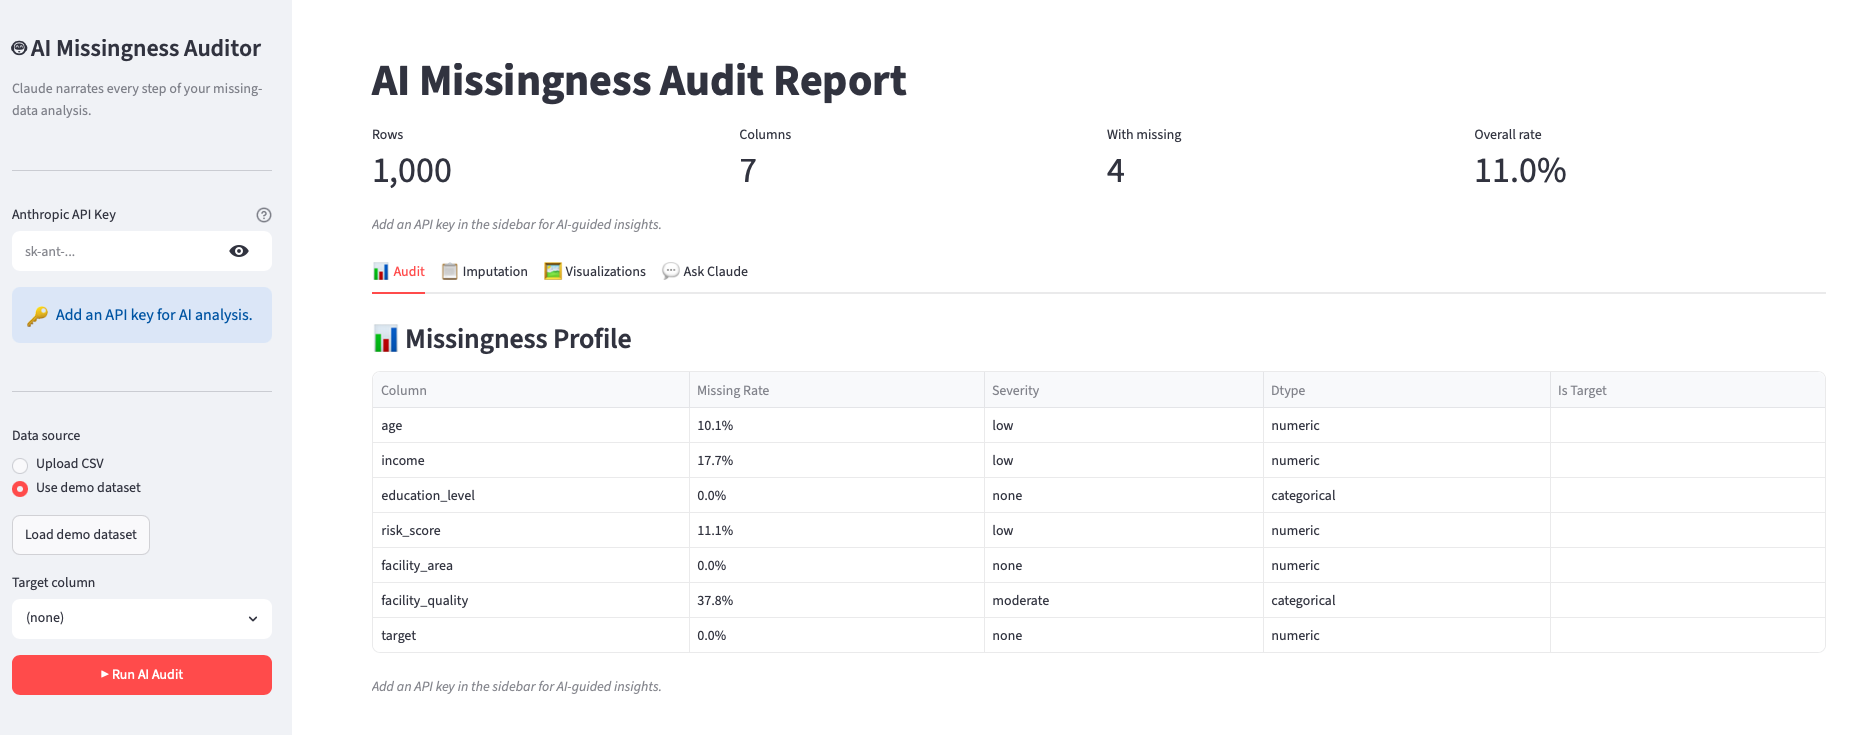
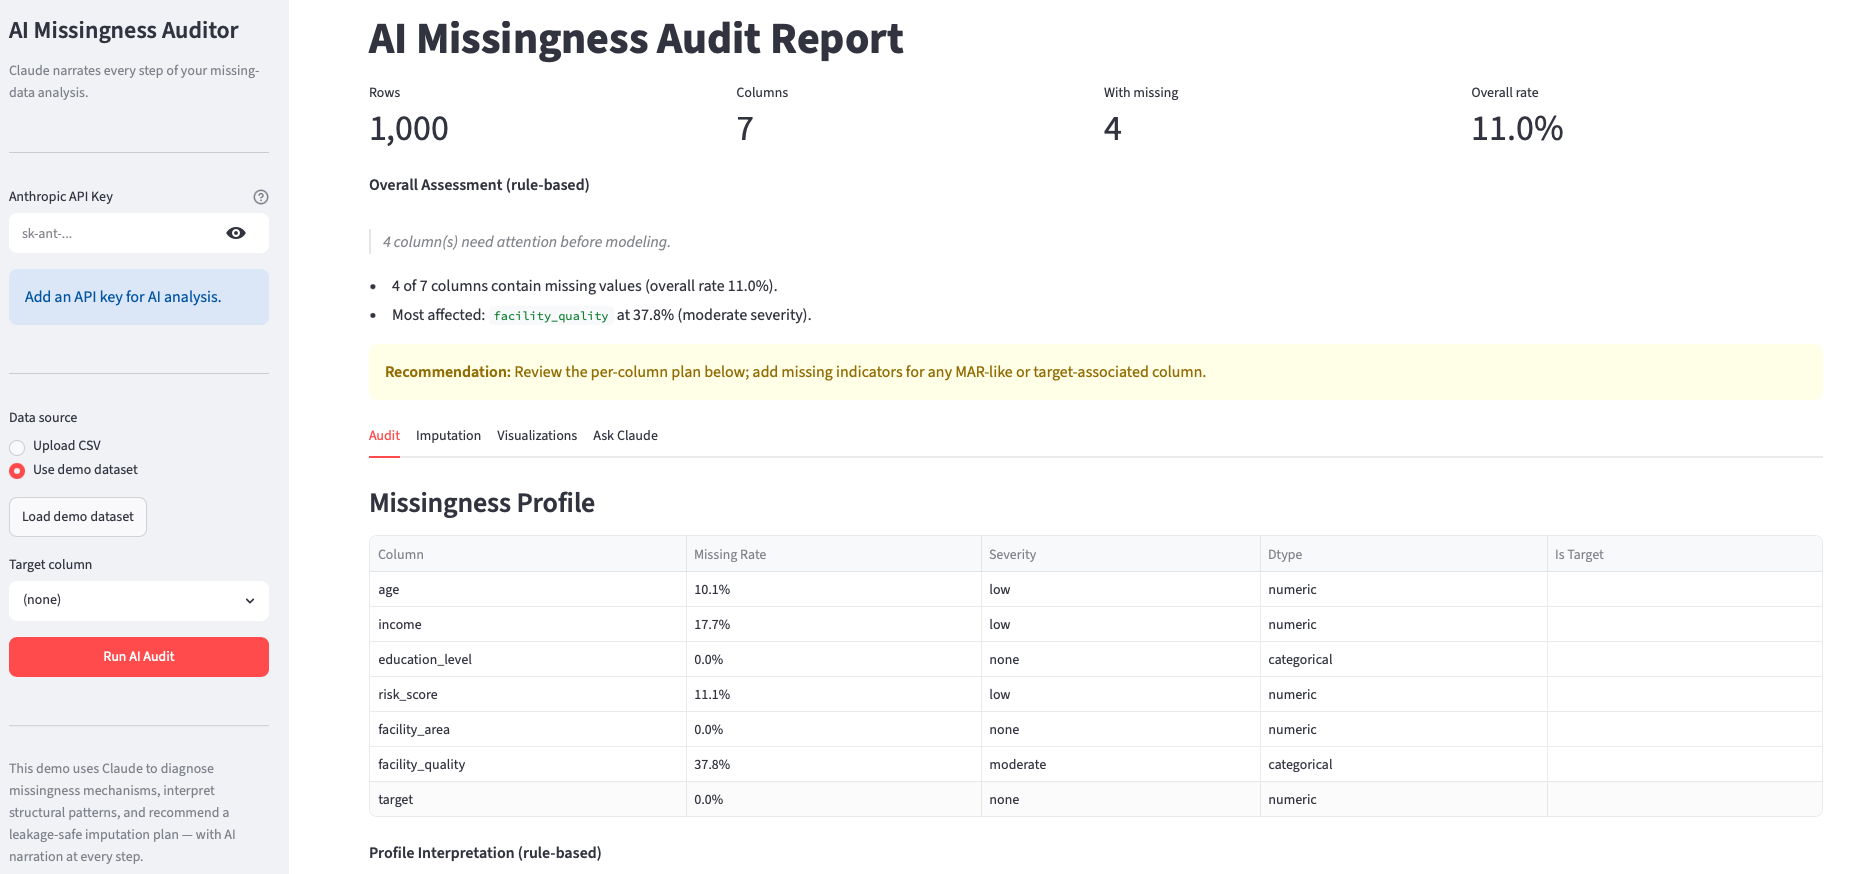
Update missingness auditor docs and screenshots

diff --git a/README.md b/README.md
@@ -94,26 +94,24 @@ The plan is explicit enough for a downstream modeling agent to apply without rer
 
 | Component | What it does |
 |---|---|
-| Brain / LLM | Claude is optional in the Streamlit demo; it narrates findings, chooses useful charts, explains mechanisms, and suggests alternatives. The core statistical audit also runs without an LLM. |
-| Memory | JSON logs and Markdown reports preserve profile, mechanism, structural, leakage, and plan outputs across calls. |
-| Planning | The planner combines missingness rates, dtype/cardinality, mechanism clues, structural evidence, and leakage rules into column-level imputation decisions. |
-| Action | Python package, CLI, and Streamlit UI invoke profilers, auditors, detector, planner, imputer, visualizer, and report writer. |
-| Execution | Local Python runtime or Streamlit Cloud; no external dataset is required for the bundled demo. |
-| Observation | The agent inspects tables, JSON evidence, diagnostic figures, before/after imputation summaries, and downloadable artifacts. |
-| Response | Final output is a human-readable report plus machine-readable `imputation_plan.json` and optional imputed CSVs. |
+| Sidebar inputs | The Streamlit shell collects the Anthropic API key, data source, optional upload/demo dataset, target column, and the **Run AI Audit** trigger. |
+| Audit tab | Shows the report headline, dataset counts, rule-based overall assessment, missingness profile table, mechanism tests, and structural absence findings. |
+| Imputation tab | Presents AI recommendations, decision cards, leakage-safe strategy details, and the strategy override workflow with **Apply Recommended Plan** or **Apply Custom Strategies**. |
+| Visualizations tab | Displays Claude-selected diagnostic charts with captions, including missingness rates and target signal by missingness when a target is available. |
+| Ask Claude tab | Lets users ask follow-up questions grounded in the current audit, plan, and chart evidence. |
+| Reusable skill layer | The same profiler, mechanism audit, structural detector, planner, imputer, visualizer, and report writer remain available through the Python API and CLI. |
+| Outputs | The workflow produces a human-readable report plus machine-readable logs, `imputation_plan.json`, diagnostic figures, reproducibility artifacts, and optional imputed CSVs. |
 
 ```mermaid
 flowchart LR
-    A["CSV or pandas DataFrame"] --> B["Missingness profile"]
-    B --> C["Mechanism audit"]
-    B --> D["Structural detector"]
-    C --> E["Imputation planner"]
-    D --> E
-    E --> F["Leakage-safe check"]
-    F --> G["imputation_plan.json"]
-    F --> H["missing_data_report.md"]
-    F --> I["Diagnostic figures"]
-    E --> J["Optional imputed data"]
+    A["Sidebar: API key, data source, target column"] --> B["Run AI Audit"]
+    B --> C["Audit tab: report overview, profile, mechanism evidence"]
+    C --> D["Imputation tab: AI recommendation and strategy override"]
+    C --> E["Visualizations tab: Claude-selected diagnostic charts"]
+    D --> F["Apply recommended or custom strategies"]
+    E --> G["Ask Claude: follow-up interpretation"]
+    F --> H["Reports, logs, figures, and optional imputed CSVs"]
+    G --> H
 ```
 
 ## Use It

diff --git a/AWARD_C_POST.md b/AWARD_C_POST.md
@@ -30,13 +30,13 @@ Kaggle discussion index: https://www.kaggle.com/competitions/stai-x-challenge-20
 
 | Component | What it does |
 |---|---|
-| Brain / LLM | Claude is used in the Streamlit demo to narrate findings, recommend useful charts, explain mechanisms, and suggest alternatives. The core audit can run without an LLM. |
-| Memory | JSON logs and Markdown reports store the profile, mechanism audit, structural findings, leakage check, and imputation plan. |
-| Planning | Combines missing rates, dtype/cardinality, mechanism clues, structural evidence, and leakage rules into a per-column imputation plan. |
-| Action | Runs profilers, mechanism auditors, structural detectors, imputation planners, leakage checks, visualizers, and report writers through Python, CLI, or Streamlit. |
-| Execution | Python package plus Streamlit Cloud demo; the bundled demo dataset requires no external data. |
-| Observation | Tables, diagnostic charts, JSON evidence, report text, and before/after imputation summaries are inspected before final recommendations. |
-| Response | Delivers `imputation_plan.json`, `missing_data_report.md`, diagnostic figures, and optional imputed CSVs. |
+| Reusable statistical skill | The Python package performs the core audit: profiling missingness, testing mechanism clues, detecting structural absence, planning leakage-safe imputation, and writing reproducible artifacts. |
+| Streamlit control layer | The sidebar collects the API key, data source, target column, and **Run AI Audit** action so the same skill can be used with the demo data or an uploaded CSV. |
+| Audit tab | Presents the AI Missingness Audit Report, rule-based assessment, missingness profile, mechanism evidence, and structural findings in one review surface. |
+| Imputation tab | Shows AI recommendations and lets users either apply the recommended plan or override strategies column by column. |
+| Visualizations tab | Uses Claude-assisted chart selection to show the most relevant diagnostic figures and captions for the current dataset. |
+| Ask Claude tab | Provides a follow-up explanation interface grounded in the audit, imputation plan, and chart evidence. |
+| Outputs | Delivers `imputation_plan.json`, `missing_data_report.md`, diagnostic figures, reproducibility artifacts, and optional imputed CSVs for downstream agents. |
 
 ## Why participants can adopt it
 
